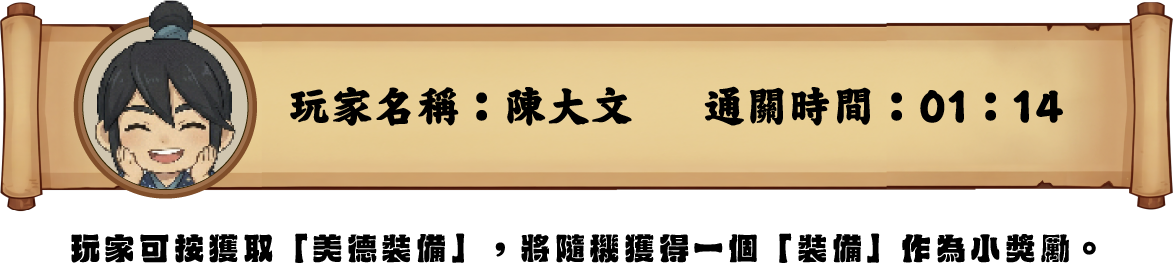
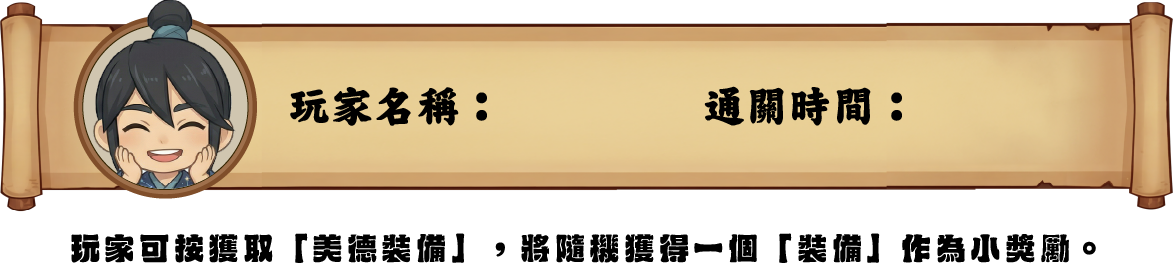
add game result page

diff --git a/src/scenes/GameResult.js b/src/scenes/GameResult.js
@@ -1,0 +1,130 @@
+import { CustomButton } from "../UI/Button.js";
+import UIHelper from "../UI/UIHelper.js";
+import GameManager from "./GameManager.js";
+
+export class GameResult extends Phaser.Scene {
+    constructor() {
+        super('GameResult');
+    }
+
+    preload() {
+        const path = 'assets/GameEnd/';
+
+        // Background
+        this.load.image('finishpage_bg', `${path}finishpage_bg.png`);
+
+        // Character Bars
+        this.load.image('finishpage_bar_boy', `${path}finishpage_bar_boy.png`);
+        this.load.image('finishpage_bar_girl', `${path}finishpage_bar_girl.png`);
+
+        // UI Elements
+        this.load.image('finishpage_box', `${path}finishpage_box.png`);
+
+        // Buttons
+        this.load.image('finishpage_close_button', `${path}finishpage_close_button.png`);
+        this.load.image('finishpage_close_button_select', `${path}finishpage_close_button_select.png`);
+
+        this.load.image('finishpage_item_button', `${path}finishpage_item_button.png`);
+        this.load.image('finishpage_item_button_select', `${path}finishpage_item_button_select.png`);
+
+        this.load.image('left_arrow_button', `${path}left_arrow_button.png`);
+        this.load.image('left_arrow_button_click', `${path}left_arrow_button_click.png`);
+
+        this.load.image('right_arrow_button', `${path}right_arrow_button.png`);
+        this.load.image('right_arrow_button_click', `${path}right_arrow_button_click.png`);
+
+        // Information Pages
+        this.load.image('finishpage_information1', `${path}finishpage_information1.png`);
+        this.load.image('finishpage_information2', `${path}finishpage_information2.png`);
+        this.load.image('program_information_p3', `${path}program_information_p3.png`);
+        this.load.image('program_information_p4', `${path}program_information_p4.png`);
+
+        // Items (1-10)
+        for (let i = 1; i <= 10; i++) {
+            this.load.image(`finishpage_items${i}`, `${path}finishpage_items${i}.png`);
+        }
+    }
+
+    create() {
+        const centerX = this.cameras.main.width / 2;
+        const centerY = this.cameras.main.height / 2;
+
+
+        this.ui = UIHelper.createResultCommonUI(this);
+        this.haveItem = false;
+
+        // Background
+        this.add.image(centerX, centerY, 'finishpage_bg');
+
+        this.playerInfo = localStorage.getItem('playerInfo') ? JSON.parse(localStorage.getItem('playerInfo')) : null;
+        this.gameResults = GameManager.loadGameResult();
+
+        this.resultGroup = this.add.group();
+        this.result = this.add.image(centerX, centerY, 'finishpage_box').setDepth(10);
+        this.resultGroup.add(this.result);
+
+        this.resultContent = this.getResultContent();
+
+        this.button = new CustomButton(this, centerX, centerY + 150, 'finishpage_item_button', 'finishpage_item_button_select',
+            () => {
+                this.button.setVisible(false);
+                if (!this.haveItem) {
+                    const itemKey = this.getRandomItem();
+                    this.itemImage = this.add.image(centerX, centerY + 200, itemKey).setDepth(11);
+                    this.haveItem = true;
+                }
+
+            }).setDepth(11);
+        this.resultGroup.add(this.button);
+
+        this.closeButton = new CustomButton(this, 1600, 200, 'finishpage_close_button'
+            , 'finishpage_close_button_select', () => {
+                this.time.delayedCall(2000, () => {
+                    GameManager.switchToGameScene(this, 'GameStartScene');
+                });
+            }).setDepth(11).setVisible(true);
+
+    }
+
+    getResultContent() {
+        let playerName = this.playerInfo ? this.playerInfo.name : "玩家 1";
+        let gender = this.playerInfo ? this.playerInfo.gender : "M";
+        let usedSeconds = 0;
+
+        for (const gameId in this.gameResults) {
+            const result = this.gameResults[gameId];
+            usedSeconds += result.seconds;
+        }
+        console.log("Total Used Seconds:", usedSeconds);
+
+        const minutes = Math.floor(usedSeconds / 60);
+        const seconds = usedSeconds % 60;
+        const timeString = `${minutes}分${seconds}秒`;
+
+        let charBar;
+        if (gender === 'M') {
+            charBar = this.add.image(960, 400, 'finishpage_bar_boy').setDepth(11);
+        } else {
+            charBar = this.add.image(960, 400, 'finishpage_bar_girl').setDepth(11);
+        }
+        const nameText = this.add.text(900, 360, `${playerName}`).setDepth(11)
+            .setFontSize(40).setColor('#000000').setFontStyle('bold');
+
+        const timeText = this.add.text(1300, 360, timeString)
+            .setDepth(11).setFontSize(40).setColor('#000000').setFontStyle('bold');
+
+        if (this.resultGroup) {
+            this.resultGroup.add(charBar);
+            this.resultGroup.add(nameText);
+            this.resultGroup.add(timeText);
+        }
+
+        return `恭喜你，${playerName}！\n你已完成所有遊戲！\n總共花費了 ${timeString}！`;
+    }
+
+
+    getRandomItem() {
+        const itemIndex = Phaser.Math.Between(1, 10);
+        return `finishpage_items${itemIndex}`;
+    }
+}

diff --git a/src/UI/UIHelper.js b/src/UI/UIHelper.js
@@ -191,6 +191,110 @@ export default class UIHelper {
         return { settingBtn, descBtn, itemBtn, settingPanel, descriptionPanel, itemPanel, roundStates };
     }
 
+
+    static createResultCommonUI(scene) {
+
+        const width = scene.cameras.main.width;
+        const height = scene.cameras.main.height;
+        const centerX = width / 2;
+        const centerY = height / 2;
+
+        const descriptionPages = [
+            { content: 'finishpage_information1' },
+            { content: 'finishpage_information2' }
+        ];
+
+        scene.add.image(centerX, centerY, 'finishpage_bg');
+
+        // Panels
+        const settingPanel = new SettingPanel(scene, 960, 540).setScrollFactor(0);
+        settingPanel.setVisible(false);
+        settingPanel.setDepth(999); // Setting panel above others by default
+        scene.add.existing(settingPanel);
+
+        const descriptionPanel = new CustomPanel(scene, 960, 540, descriptionPages).setScrollFactor(0);
+        descriptionPanel.prevBtn.setTexture('left_arrow_button');
+        descriptionPanel.prevBtn.normalKey = 'left_arrow_button';
+        descriptionPanel.prevBtn.pressedKey = 'left_arrow_button_click';
+
+        descriptionPanel.nextBtn.setTexture('right_arrow_button');
+        descriptionPanel.nextBtn.normalKey = 'right_arrow_button';
+        descriptionPanel.nextBtn.pressedKey = 'right_arrow_button_click';
+
+        descriptionPanel.setVisible(false);
+        descriptionPanel.setDepth(999);
+        scene.add.existing(descriptionPanel);
+
+        const itemPanel = new ItemsPanel(scene, 960, 540).setScrollFactor(0);
+        itemPanel.setVisible(false);
+        itemPanel.setDepth(999);
+        scene.add.existing(itemPanel);
+
+        const allButtons = [];
+
+        // Buttons
+        const settingBtn = new CustomButton(scene, 100, 100, 'setting_btn', 'setting_btn_click',
+            () => {
+                openPanel(settingPanel, settingBtn);
+            }, () => {
+                settingPanel.setVisible(false);
+            }).setScrollFactor(0);
+
+        settingBtn.setDepth(999); // Buttons above panels
+        allButtons.push(settingBtn);
+
+        const descBtn = new CustomButton(scene, 250, 100, 'desc_button', 'desc_button_click',
+            () => {
+                openPanel(descriptionPanel, descBtn);
+            }, () => {
+                descriptionPanel.setVisible(false);
+            }).setScrollFactor(0);
+
+        descBtn.setDepth(999);
+        allButtons.push(descBtn);
+
+        const itemBtn = new CustomButton(scene, 400, 100, 'gameintro_bag', 'gameintro_bag_click',
+            () => {
+                openPanel(itemPanel, itemBtn);
+            }, () => {
+                itemPanel.setVisible(false);
+            }).setScrollFactor(0);
+        itemBtn.setDepth(999);
+        allButtons.push(itemBtn);
+
+        settingBtn.needClicked = true;
+        descBtn.needClicked = true;
+        itemBtn.needClicked = true;
+
+
+        descriptionPanel.toggleBtn = descBtn;
+        itemBtn.toggleBtn = itemBtn;
+        settingPanel.toggleBtn = settingBtn;
+
+
+        function openPanel(targetPanel, activeBtn) {
+            [settingPanel, descriptionPanel, itemPanel]
+                .forEach(p => {
+                    if (p) p.setVisible(false);
+                });
+            // --- 重設所有按鈕狀態 ---
+            allButtons.forEach(btn => {
+                if (btn !== activeBtn) {
+                    btn.resetStatus?.();
+                }
+                btn.setScrollFactor(0);
+            });
+            if (targetPanel) {
+                targetPanel.setVisible(true);
+                targetPanel.currentPage = 0;
+                if (targetPanel.refresh) targetPanel.refresh();
+            }
+        }
+
+        return { settingBtn, descBtn, itemBtn, settingPanel, descriptionPanel, itemPanel };
+    }
+
+
     //================================ Video switcher with transition ===========================
     static switchVideo(scene, currentVideoVar, transitionKey, finalKey, x, y, duration = 2000, onComplete) {
         // 1. 先將舊片淡出，然後銷毀

diff --git a/src/scenes/Game/GameScene_5.js b/src/scenes/Game/GameScene_5.js
@@ -39,14 +39,14 @@ export class GameScene_5 extends BaseGameScene {
         this.gameResult_4 = GameManager.loadOneGameResult(4);
         this.canPlay = false;
         console.log("Game 5 - Can Play:", this.canPlay);
-        // if (this.gameResult_1 && this.gameResult_1.isFinished &&
-        //     this.gameResult_4 && this.gameResult_4.isFinished) {
-        //     this.canPlay = true;
-        //     this.initGame('game5_bg', 'game5_title', 'game5_description', 10, true);
-        // } else {
-        //     this.add.image(960, 540, 'game5_bg');
-        //     this.showBubble('lock');
-        // }
+        if (this.gameResult_1 && this.gameResult_1.isFinished &&
+            this.gameResult_4 && this.gameResult_4.isFinished) {
+            this.canPlay = true;
+            this.initGame('game5_bg', 'game5_title', 'game5_description', 10, true);
+        } else {
+            this.add.image(960, 540, 'game5_bg');
+            this.showBubble('lock');
+        }
 
         this.isHit = false;
         this.isValid = false;

diff --git a/src/main.js b/src/main.js
@@ -10,6 +10,7 @@ import { GameScene_4 } from './scenes/Game/GameScene_4.js';
 import { GameScene_5 } from './scenes/Game/GameScene_5.js';
 import { GameScene_6 } from './scenes/Game/GameScene_6.js';
 import { GameScene_7 } from './scenes/Game/GameScene_7.js';
+import { GameResult } from './scenes/GameResult.js';
 
 
 var config = {
@@ -33,7 +34,8 @@ var config = {
         GameScene_4,
         GameScene_5,
         GameScene_6,
-        GameScene_7
+        GameScene_7,
+        GameResult
     ],
     scale: {
         mode: Phaser.Scale.FIT,

diff --git a/src/scenes/BootScene.js b/src/scenes/BootScene.js
@@ -219,7 +219,7 @@ export class BootScene extends Phaser.Scene {
 
             this.registry.set('globalSettings', settings);
         }
-        this.scene.start('GameScene_7');
+        this.scene.start('GameResult');
     }
 
 }
